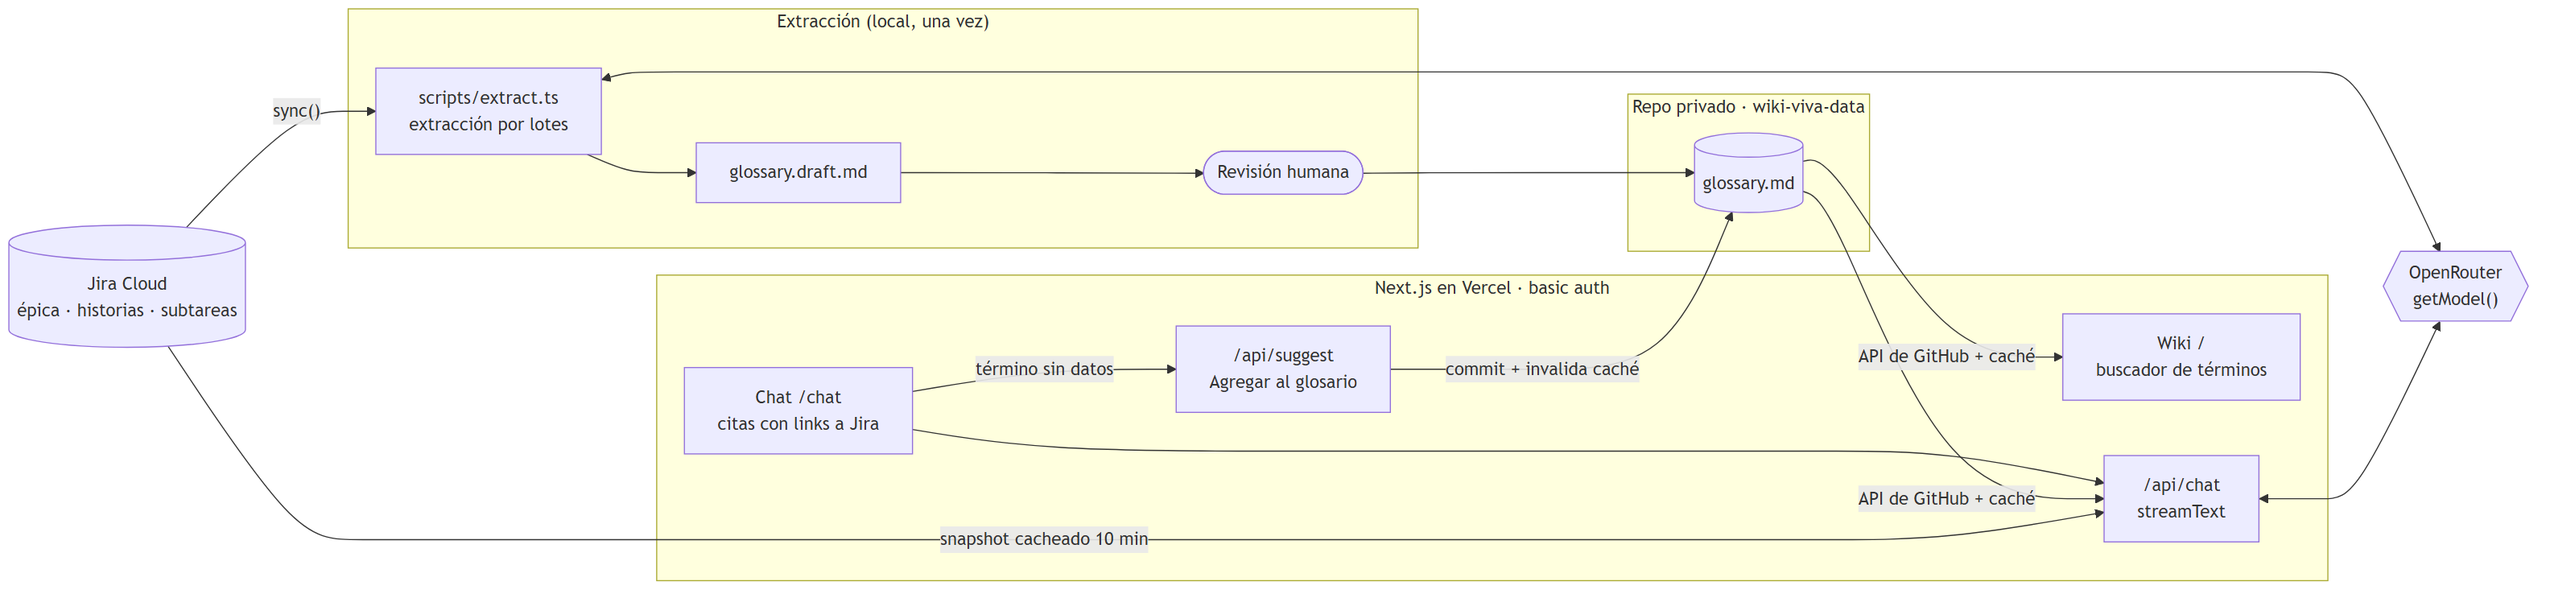
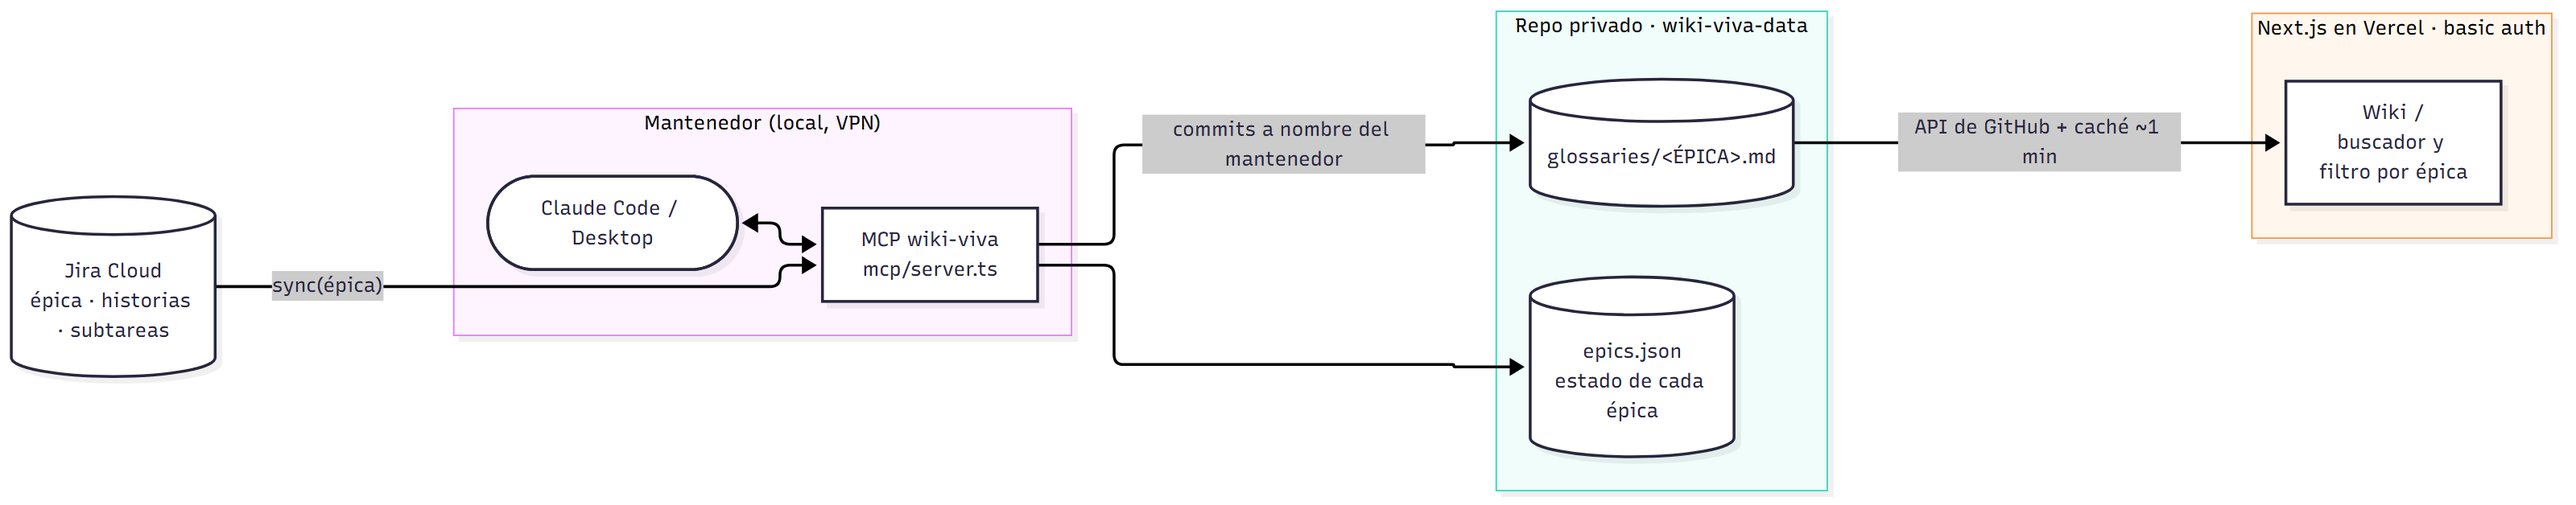
docs: imagen de arquitectura con el MCP local
Regenerada desde el diagrama del README. El comando usa --size, que
reemplaza a -w en mermaid-cli v12.

diff --git a/README.md b/README.md
@@ -32,7 +32,7 @@ flowchart LR
     GLOS -- "API de GitHub + caché ~1 min" --> WIKI
 ```
 
-La imagen [`docs/arquitectura.png`](docs/arquitectura.png) se regenera desde el bloque de arriba con `npx @mermaid-js/mermaid-cli -i arquitectura.mmd -o docs/arquitectura.png -w 1600 -s 2 -b white`.
+La imagen [`docs/arquitectura.png`](docs/arquitectura.png) se regenera desde el bloque de arriba con `npx @mermaid-js/mermaid-cli -i arquitectura.mmd -o docs/arquitectura.png --size 1600 -s 2 -b white`.
 
 - **Los glosarios reales no están en este repo.** Viven en un repo privado (`GLOSSARY_REPO`), uno por épica en `glossaries/<ÉPICA>.md`, porque contienen terminología y reglas de negocio del cliente. Sin `GLOSSARY_REPO`, la wiki usa una carpeta `glossaries/` local (ignorada por git) o [`glossary.example.md`](glossary.example.md), con datos ficticios.
 - **Sin IA en el servidor.** El trabajo de IA lo hace el Claude de cada mantenedor; el sitio solo lee. No hace falta key de LLM.
